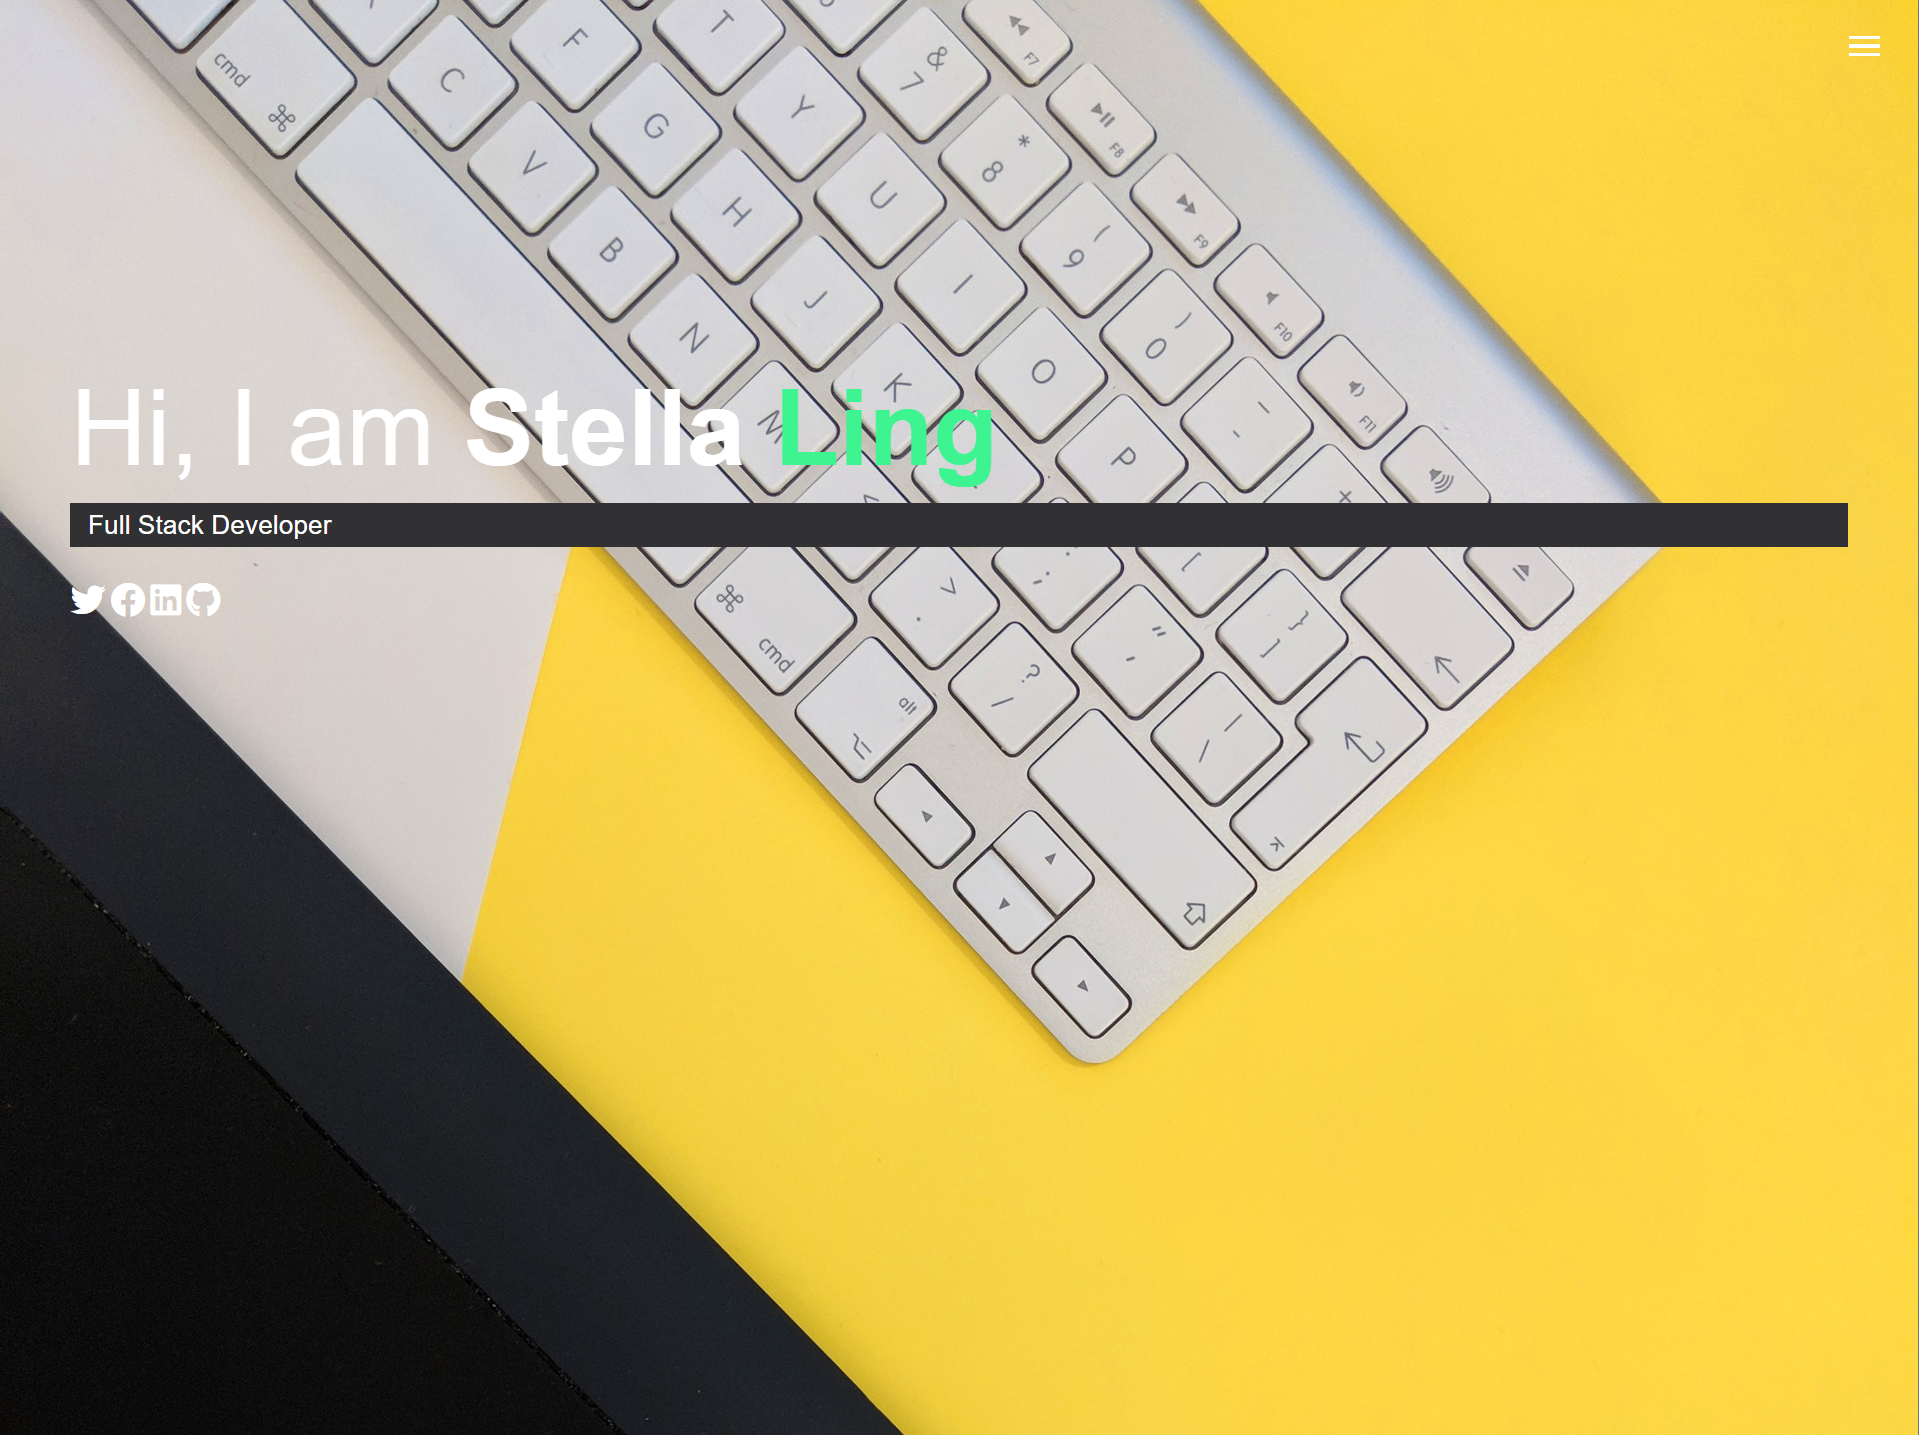
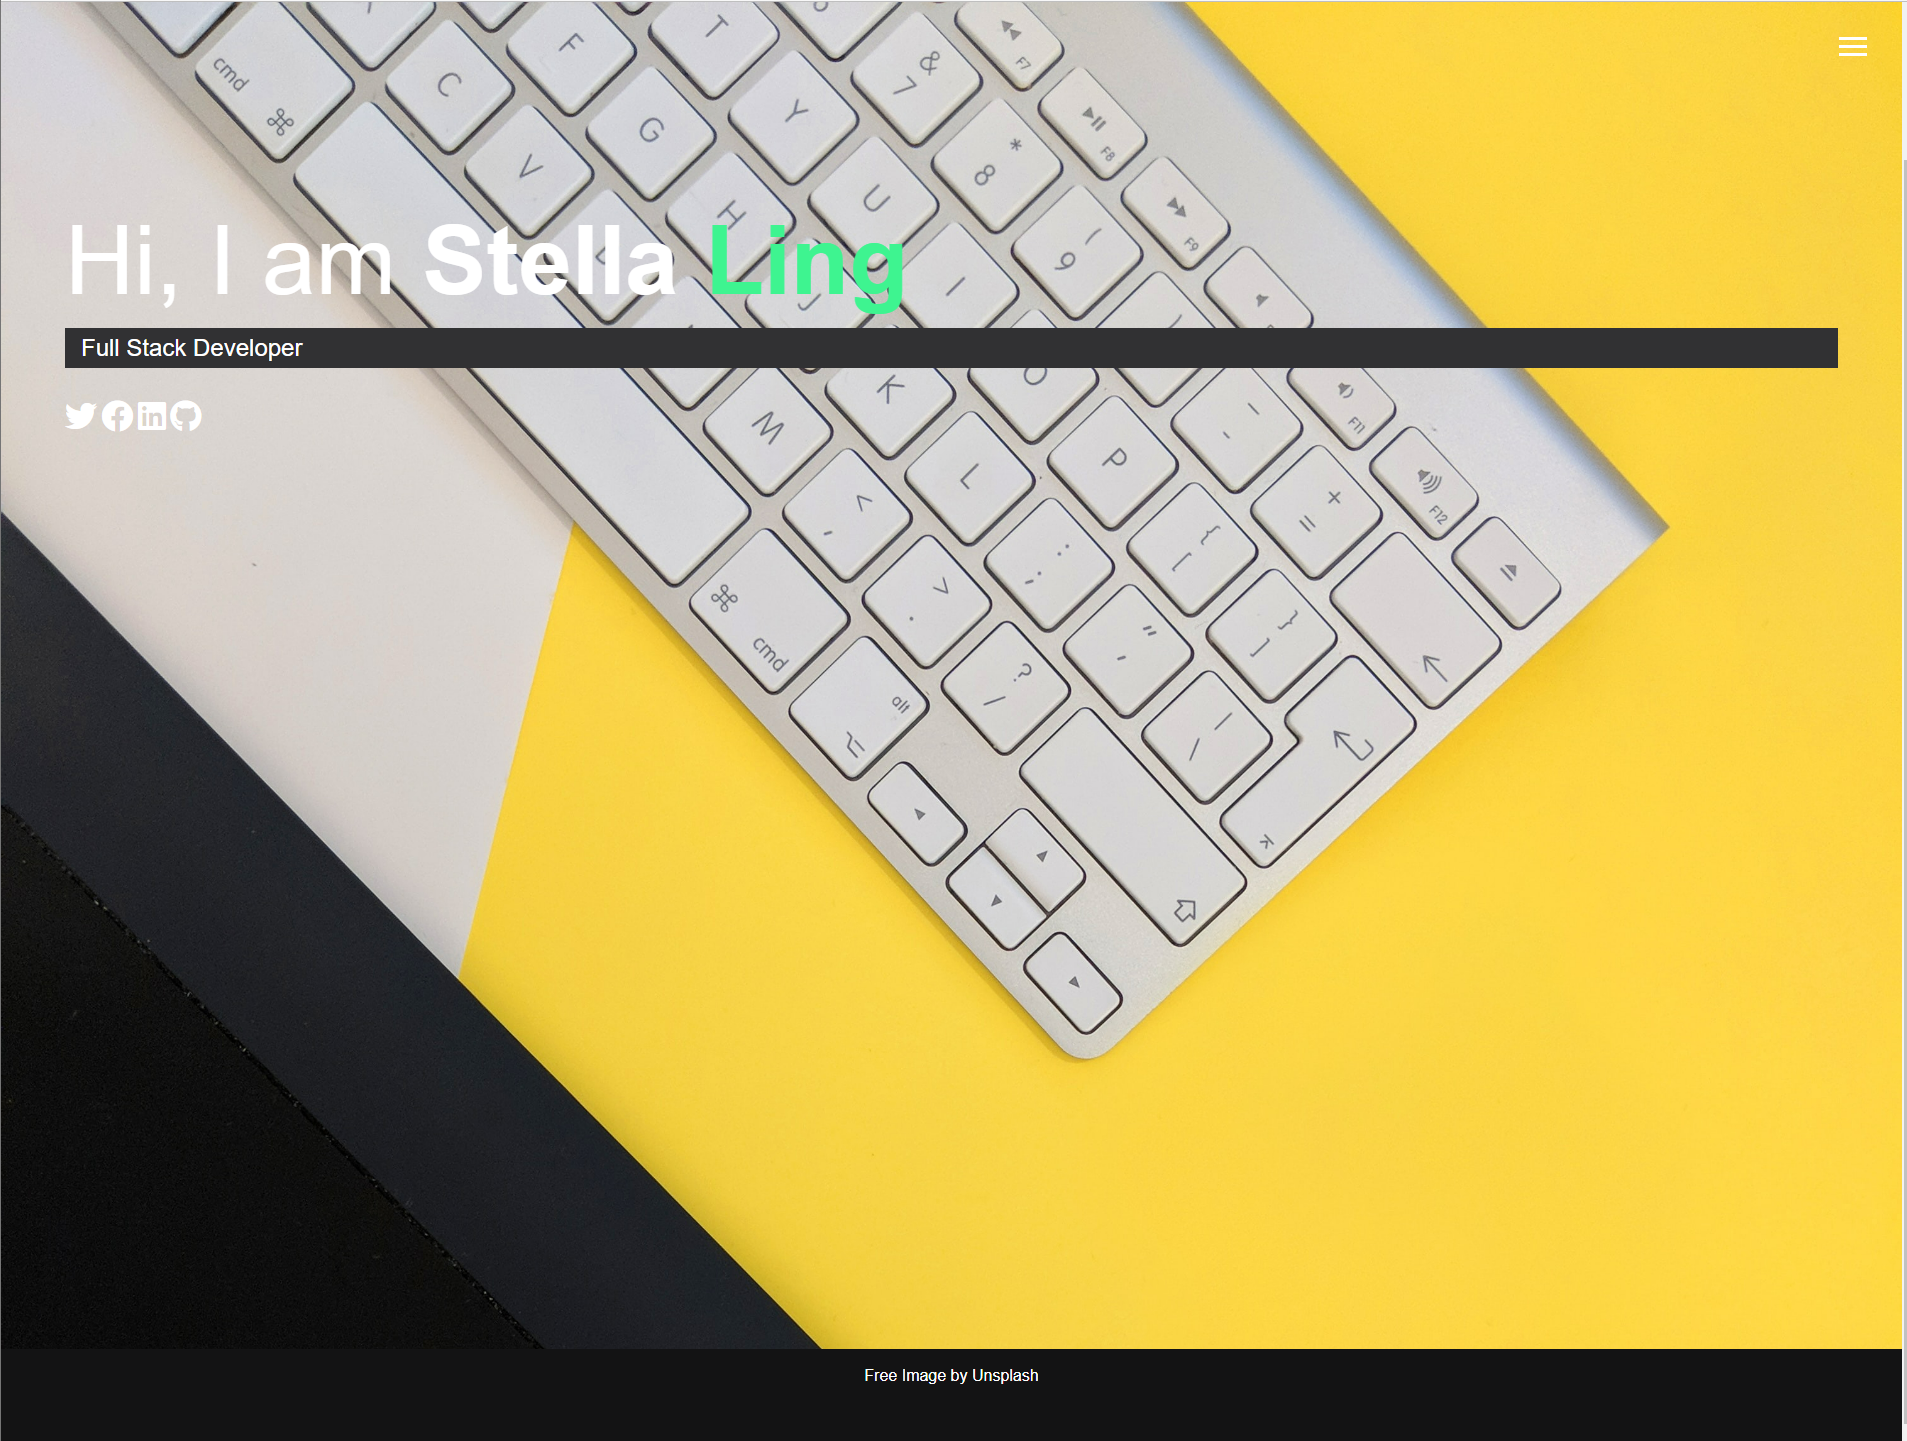
update links in the html files for resume

diff --git a/about.html b/about.html
@@ -6,12 +6,12 @@
     <meta name="viewport" content="width=device-width, initial-scale=1.0">
     <meta http-equiv="X-UA-Compatible" content="ie=edge">
 
-<!-- Fonts Awesome -->
+    <!-- Fonts Awesome -->
 
     <link rel="stylesheet" href="https://use.fontawesome.com/releases/v5.2.0/css/all.css"
         integrity="sha384-hWVjflwFxL6sNzntih27bfxkr27PmbbK/iSvJ+a4+0owXq79v+lsFkW54bOGbiDQ" crossorigin="anonymous">
 
-<!-- Link to Stylesheet -->
+    <!-- Link to Stylesheet -->
 
     <link rel="stylesheet" href="css/main.css">
     <title>About Me</title>
@@ -63,11 +63,17 @@
                         Linkedln
                     </a>
                 </li>
+                <li class="nav-item">
+                    <a href="https://drive.google.com/file/d/1n9e_dLYS_-dBRb4SgBKJ_0nah56Xs2MY/view?usp=sharing"
+                        target="_blank" rel="noopener noreferrer" class="nav-link">
+                        Resume
+                    </a>
+                </li>
             </ul>
         </nav>
     </header>
 
-<!-- Section : About Me -->
+    <!-- Section : About Me -->
 
     <main id="about">
         <h1 class="lg-heading">
@@ -96,7 +102,7 @@
             <br>
             <br>
 
-<!-- Section: Skills  -->
+            <!-- Section: Skills  -->
 
             <div class="job job-1">
                 <h3>SKILLS - Technologies</h3>
@@ -119,6 +125,8 @@
                 <li>Handlebars</li>
                 <li>SASS</li>
                 <li>NPM</li>
+                <li>Bootstrap</li>
+                <li>Materialise</li>
             </div>
 
             <div class="job job-3">
@@ -134,13 +142,13 @@
     </main>
 
 
-<!-- Footer -->
+    <!-- Footer -->
 
     <footer id="main-footer">
         Copyright &copy; 2022
     </footer>
 
-<!-- Link to JS  -->
+    <!-- Link to JS  -->
 
     <script src="js/main.js"></script>
 </body>

diff --git a/work.html b/work.html
@@ -17,6 +17,9 @@
   <title>View My Work</title>
 </head>
 
+<!-- Navbar and Links -->
+
+
 <body>
   <header>
     <div class="menu-btn">
@@ -61,9 +64,18 @@
             Linkedln
           </a>
         </li>
+        <li class="nav-item">
+          <a href="https://drive.google.com/file/d/1n9e_dLYS_-dBRb4SgBKJ_0nah56Xs2MY/view?usp=sharing" target="_blank"
+            rel="noopener noreferrer" class="nav-link">
+            Resume
+          </a>
+        </li>
       </ul>
     </nav>
   </header>
+
+
+  <!--Section : Projects  -->
 
   <main id="work">
     <h1 class="lg-heading">
@@ -176,6 +188,8 @@
       </div>
     </div>
   </main>
+
+  <!-- Footer -->
 
   <footer id="main-footer">
     Copyright &copy; 2022

diff --git a/contact.html b/contact.html
@@ -17,6 +17,8 @@
     <title>Contact Me</title>
 </head>
 
+<!-- Navbar and Links -->
+
 <body>
     <header>
         <div class="menu-btn">
@@ -65,6 +67,8 @@
         </nav>
     </header>
 
+    <!-- Section: Contact Information -->
+
     <main id="contact">
         <h1 class="lg-heading">
             Contact
@@ -88,6 +92,9 @@
             </div>
         </div>
     </main>
+
+
+    <!-- Footer -->
 
     <footer id="main-footer">
         Copyright &copy; 2022

diff --git a/index.html b/index.html
@@ -101,6 +101,11 @@
         </a>
     </main>
 
+    <footer id="main-footer">
+        Free Image by Unsplash
+    </footer>
+
+
     <!-- Link to JS -->
 
     <script src="js/main.js"></script>
